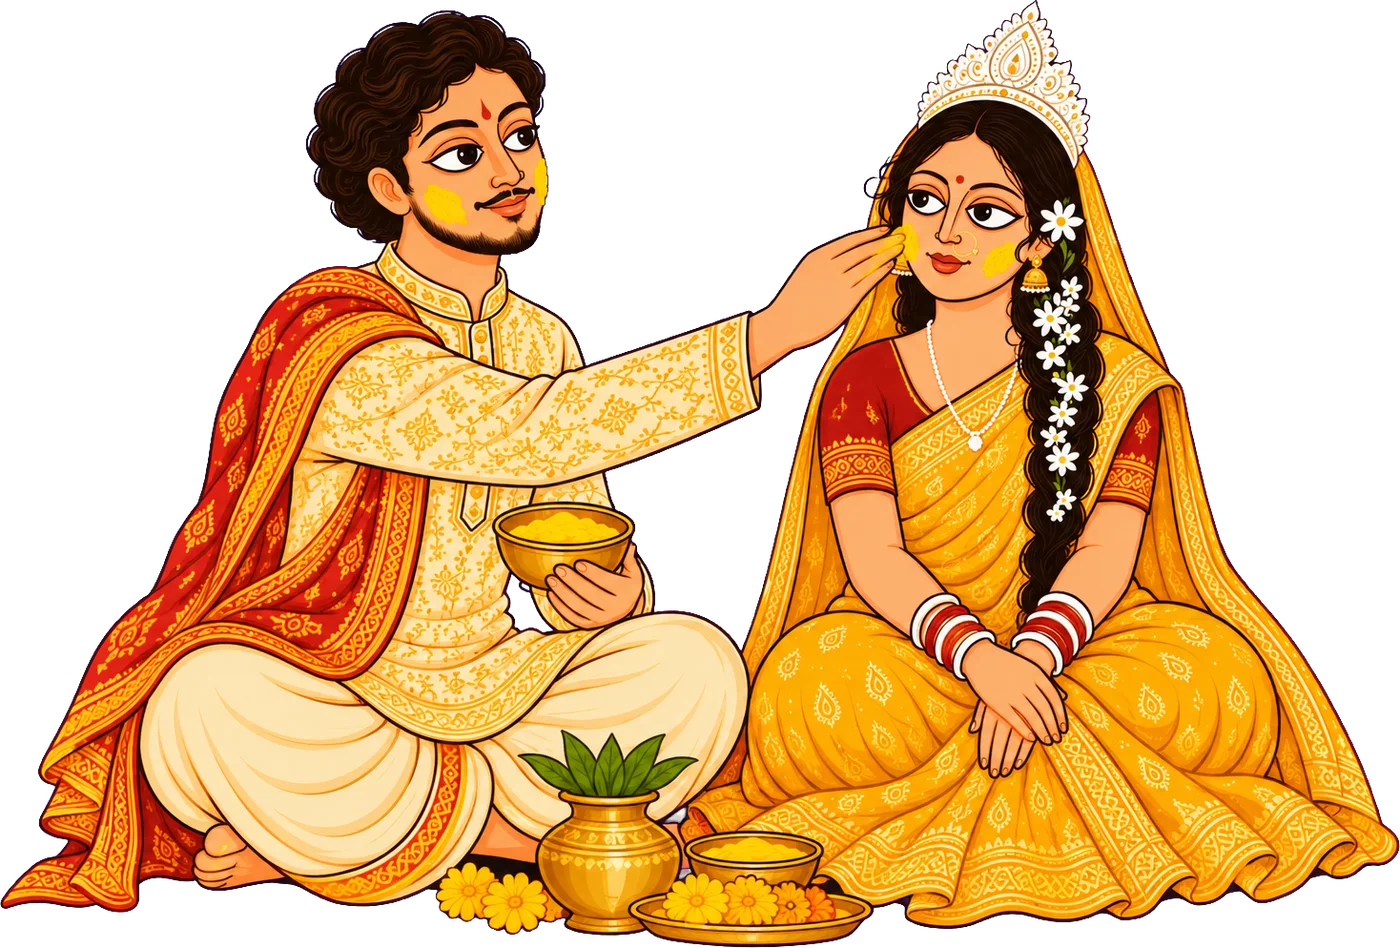
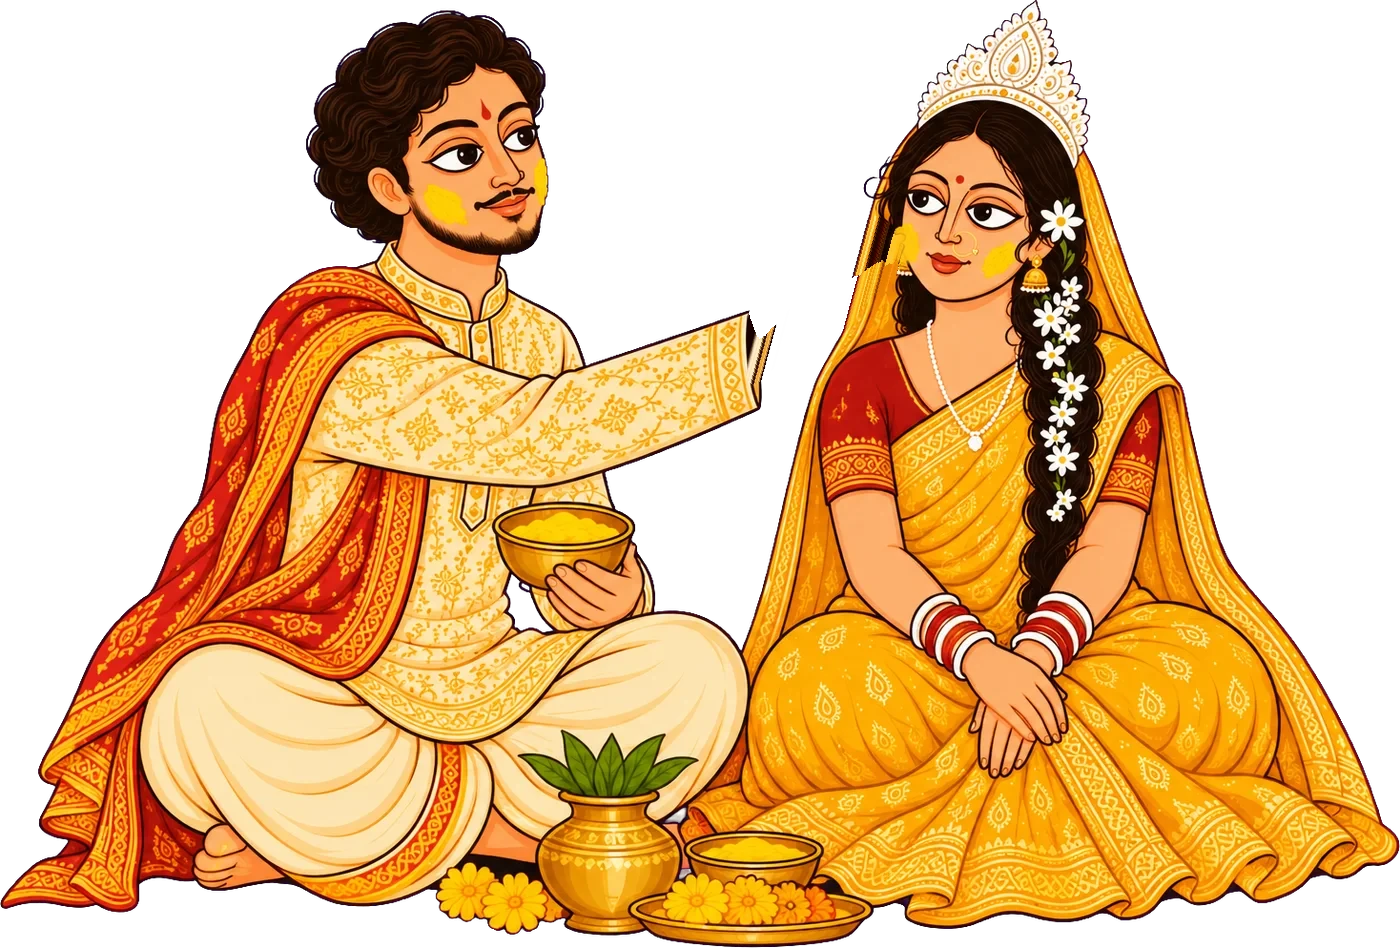
Haldi: the groom's hand rubs haldi on her cheek, lifts back and returns (forearm split into its own layer)

Changed region(s): [[0.5221, 0.2141, 0.645, 0.3977]]

diff --git a/src/scenes/motion.js b/src/scenes/motion.js
@@ -41,5 +41,19 @@ export const idle = {
   sway: (q, id, deg = 1.5, dur = 2.6, origin = '50% 0%') => gsap.fromTo(inner(q, id), { rotation: -deg }, { rotation: deg, duration: dur, yoyo: true, repeat: -1, ease: 'sine.inOut', transformOrigin: origin }),
   breathe: (q, id, dur = 1.8, amount = 0.008) => gsap.fromTo(inner(q, id), { scaleY: 1 }, { scaleY: 1 + amount, duration: dur, yoyo: true, repeat: -1, ease: 'sine.inOut', transformOrigin: '50% 100%' }),
   lean: (q, id, deg = 1.2, dur = 1.6) => gsap.fromTo(inner(q, id), { rotation: -deg * 0.4 }, { rotation: deg, duration: dur, yoyo: true, repeat: -1, ease: 'sine.inOut', transformOrigin: '50% 100%' }),
+  // the groom's hand at Haldi: rubs her cheek twice, lifts back into his sleeve, waits, comes back.
+  // The forearm pivots at his cuff (757, 362 in the 1400 x 948 picture); moves are in % of the picture.
+  haldi: (q, id) => {
+    const img = q(id)?.querySelector('img')
+    if (!img) return null
+    const t = gsap.timeline({ repeat: -1, repeatDelay: 0.4, defaults: { transformOrigin: '54.07% 38.19%' } })
+    t.to(img, { rotation: -1.6, duration: 0.32, ease: 'sine.inOut' })
+      .to(img, { rotation: 0.6, duration: 0.32, ease: 'sine.inOut' })
+      .to(img, { rotation: -1.6, duration: 0.32, ease: 'sine.inOut' })
+      .to(img, { rotation: 0, duration: 0.3, ease: 'sine.inOut' })
+      .to(img, { rotation: 4, xPercent: -2.1, yPercent: 2.8, duration: 0.75, ease: 'power2.inOut' }, '+=0.3')
+      .to(img, { rotation: 0, xPercent: 0, yPercent: 0, duration: 0.75, ease: 'power2.inOut' }, '+=0.9')
+    return t
+  },
   hinge: (q, id, from, to, dur, origin) => gsap.fromTo(inner(q, id), { rotation: from }, { rotation: to, duration: dur, yoyo: true, repeat: -1, ease: 'sine.inOut', transformOrigin: origin }),
 }

diff --git a/scripts/split-haldi.py b/scripts/split-haldi.py
@@ -1,0 +1,85 @@
+# Splits the Haldi couple so the groom's hand can move: his forearm becomes its own layer,
+# the place it covered (her hair, the dupatta, a little of her cheek) is painted in underneath,
+# and his sleeve cuff is copied on top so the forearm can slide back into it.
+# python3 -I scripts/split-haldi.py   (source: art/raw/haldi-couple-full.webp, the untouched picture)
+#   -> src/art/haldi-couple.webp (base), src/art/haldi-arm.webp, src/art/haldi-cuff.webp, all 1400x948
+import sys
+import numpy as np
+from PIL import Image
+from scipy import ndimage as nd
+
+src = Image.open('art/raw/haldi-couple-full.webp').convert('RGBA')
+a = np.asarray(src).astype(np.float32)
+H, W = a.shape[:2]
+yy, xx = np.mgrid[0:H, 0:W]
+rgb, al = a[..., :3], a[..., 3]
+lum = rgb.mean(2)
+
+# the forearm and hand: skin from the cuff to the fingertips (her face, also skin, starts past x 897)
+box = (xx >= 748) & (xx <= 897) & (yy >= 200) & (yy <= 425)
+skin = (np.abs(rgb - [252, 174, 106]).sum(2) < 70) & (al > 200) & box
+lab, _ = nd.label(skin)
+arm = lab == lab[320, 800]
+near = nd.binary_dilation(arm, iterations=5) & box
+ink = (lum < 120) & (al > 60)
+haldi = (rgb[..., 0] > 200) & (rgb[..., 1] > 140) & (rgb[..., 2] < 90)
+arm = arm | (near & (ink | haldi))
+arm = nd.binary_fill_holes(nd.binary_closing(arm, iterations=2))
+# the outline on the far side of the hand belongs to it too
+arm = arm | (nd.binary_dilation(arm, iterations=3) & ink & box)
+cuffzone = xx < 760
+arm &= ~cuffzone | (xx >= 752)
+
+# paint in what the arm covered: walk along the dupatta's own slant (it runs almost straight down)
+# up and down to the nearest uncovered pixel and take the closer one
+hole = nd.binary_dilation(arm, iterations=4)
+out = a.copy()
+dx = -0.27
+ys, xs = np.nonzero(hole)
+for y, x in zip(ys, xs):
+    best = None
+    for step in range(1, 260):
+        for s in (-1, 1):
+            yy2 = y + s * step
+            xx2 = int(round(x + s * step * dx))
+            if 0 <= yy2 < H and 0 <= xx2 < W and not hole[yy2, xx2]:
+                best = (yy2, xx2)
+                break
+        if best:
+            break
+    if best:
+        out[y, x] = a[best]
+# a little haldi left on her cheek where the fingers were
+cheek = ((xx - 905) / 13.0) ** 2 + ((yy - 246) / 17.0) ** 2 < 1
+soft = nd.gaussian_filter(cheek.astype(np.float32), 2.5)[..., None]
+out[..., :3] = out[..., :3] * (1 - soft * 0.75) + np.array([255, 196, 20]) * soft * 0.75
+
+armimg = np.zeros_like(a)
+armimg[arm] = a[arm]
+# soft 1px edge on the cut
+am = nd.gaussian_filter(arm.astype(np.float32), 0.6)
+armimg[..., 3] = np.minimum(a[..., 3], am * 255) * (am > 0.02)
+
+# the sleeve end, copied over the forearm's root so the arm slides into it
+cuff = (xx >= 690) & (xx < 762) & (yy >= 290) & (yy <= 440) & (al > 10) & ~arm
+cuffimg = np.zeros_like(a)
+cuffimg[cuff] = a[cuff]
+
+Image.fromarray(out.astype(np.uint8), 'RGBA').save('src/art/haldi-couple.webp', quality=90, method=6)
+Image.fromarray(armimg.astype(np.uint8), 'RGBA').save('src/art/haldi-arm.webp', quality=92, method=6)
+Image.fromarray(cuffimg.astype(np.uint8), 'RGBA').save('src/art/haldi-cuff.webp', quality=92, method=6)
+if len(sys.argv) > 1:  # preview: base, arm pulled back, and the mask
+    base = Image.fromarray(out.astype(np.uint8), 'RGBA')
+    arm_im = Image.fromarray(armimg.astype(np.uint8), 'RGBA')
+    cuff_im = Image.fromarray(cuffimg.astype(np.uint8), 'RGBA')
+    tiles = []
+    for back in (0, 1):
+        t = Image.new('RGBA', (W, H), (120, 200, 120, 255))
+        t.alpha_composite(base)
+        mv = arm_im.rotate(-4 * back, center=(757, 362), translate=(-30 * back, 27 * back), resample=Image.BICUBIC)
+        t.alpha_composite(mv)
+        t.alpha_composite(cuff_im)
+        tiles.append(t.crop((600, 150, 1000, 450)).resize((800, 600)))
+    o = Image.new('RGB', (1604, 600))
+    o.paste(tiles[0].convert('RGB'), (0, 0)); o.paste(tiles[1].convert('RGB'), (804, 0))
+    o.save(sys.argv[1])
